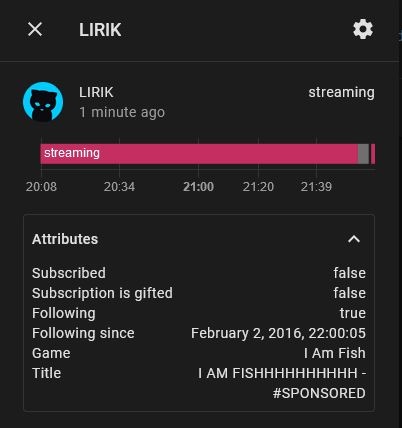
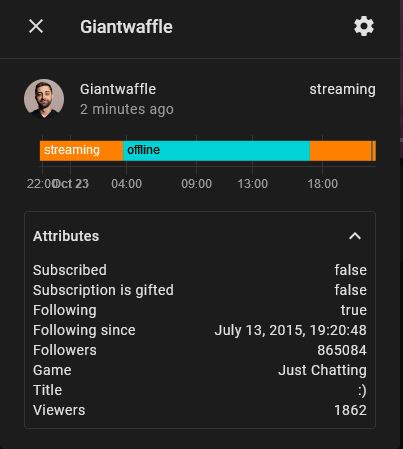
add followers and viewers to attribute data

diff --git a/custom_components/twitch_helix/sensor.py b/custom_components/twitch_helix/sensor.py
@@ -14,6 +14,8 @@ ATTR_SUBSCRIPTION = "subscribed"
 ATTR_SUBSCRIPTION_GIFTED = "subscription_is_gifted"
 ATTR_FOLLOW = "following"
 ATTR_FOLLOW_SINCE = "following_since"
+ATTR_FOLLOWERS_COUNT = "followers"
+ATTR_VIEWS = "viewers"
 
 CONF_CLIENT_ID = "client_id"
 CONF_CLIENT_SECRET = "client_secret"
@@ -72,6 +74,7 @@ class TwitchSensor(SensorEntity):
         self._subscription = None
         self._follow = None
         self._name = None
+        self._views = None
 
     @property
     def name(self):
@@ -97,7 +100,10 @@ class TwitchSensor(SensorEntity):
         attr.update(self._follow)
 
         if self._state == STATE_STREAMING:
-            attr.update({ATTR_GAME: self._game, ATTR_TITLE: self._title})
+            attr.update({
+                ATTR_GAME: self._game,
+                ATTR_TITLE: self._title,
+                ATTR_VIEWS: self._views})
         return attr
 
     @property
@@ -115,10 +121,22 @@ class TwitchSensor(SensorEntity):
         
         # Broadcast user
         broadcast_users = self._client.get_users(user_ids=[self._channel_id])            
-        broadcast_user = broadcast_users["data"][0]
+        broadcast_user = broadcast_users["data"][0]        
         
         self._preview = broadcast_user["profile_image_url"]
         self._name = broadcast_user["display_name"]
+
+        # Stream
+        try:
+            streams = self._client.get_streams(user_id=[self._channel_id])
+            stream = streams["data"][0]
+
+            self._game = stream["game_name"]
+            self._title = stream["title"]
+            self._views = stream["viewer_count"]
+            self._state = STATE_STREAMING
+        except:
+            self._state = STATE_OFFLINE
 
         # Subscription
         try:
@@ -135,11 +153,11 @@ class TwitchSensor(SensorEntity):
                 ATTR_SUBSCRIPTION_GIFTED: False
             }
 
-        # Follows
+        # Follow - User to streamer 
         try:
             follows = self._client.get_users_follows(from_id=self._user_id, to_id=self._channel_id)
             follow = follows["data"][0]
-            
+
             self._follow = {
                 ATTR_FOLLOW: True,
                 ATTR_FOLLOW_SINCE: follow["followed_at"]
@@ -148,15 +166,12 @@ class TwitchSensor(SensorEntity):
             self._follow = {
                 ATTR_FOLLOW: False,
                 ATTR_FOLLOW_SINCE: None
-            } 
+            }
 
-        # Stream
+        # Follow - Total follows
         try:
-            streams = self._client.get_streams(user_id=[self._channel_id])
-            stream = streams["data"][0]
-
-            self._game = stream["game_name"]
-            self._title = stream["title"]
-            self._state = STATE_STREAMING
+            total_follows = self._client.get_users_follows(to_id=self._channel_id,first=1)        
+            self._follow[ATTR_FOLLOWERS_COUNT] = total_follows["total"]
         except:
-            self._state = STATE_OFFLINE
+            self._follow[ATTR_FOLLOWERS_COUNT] = None
+
